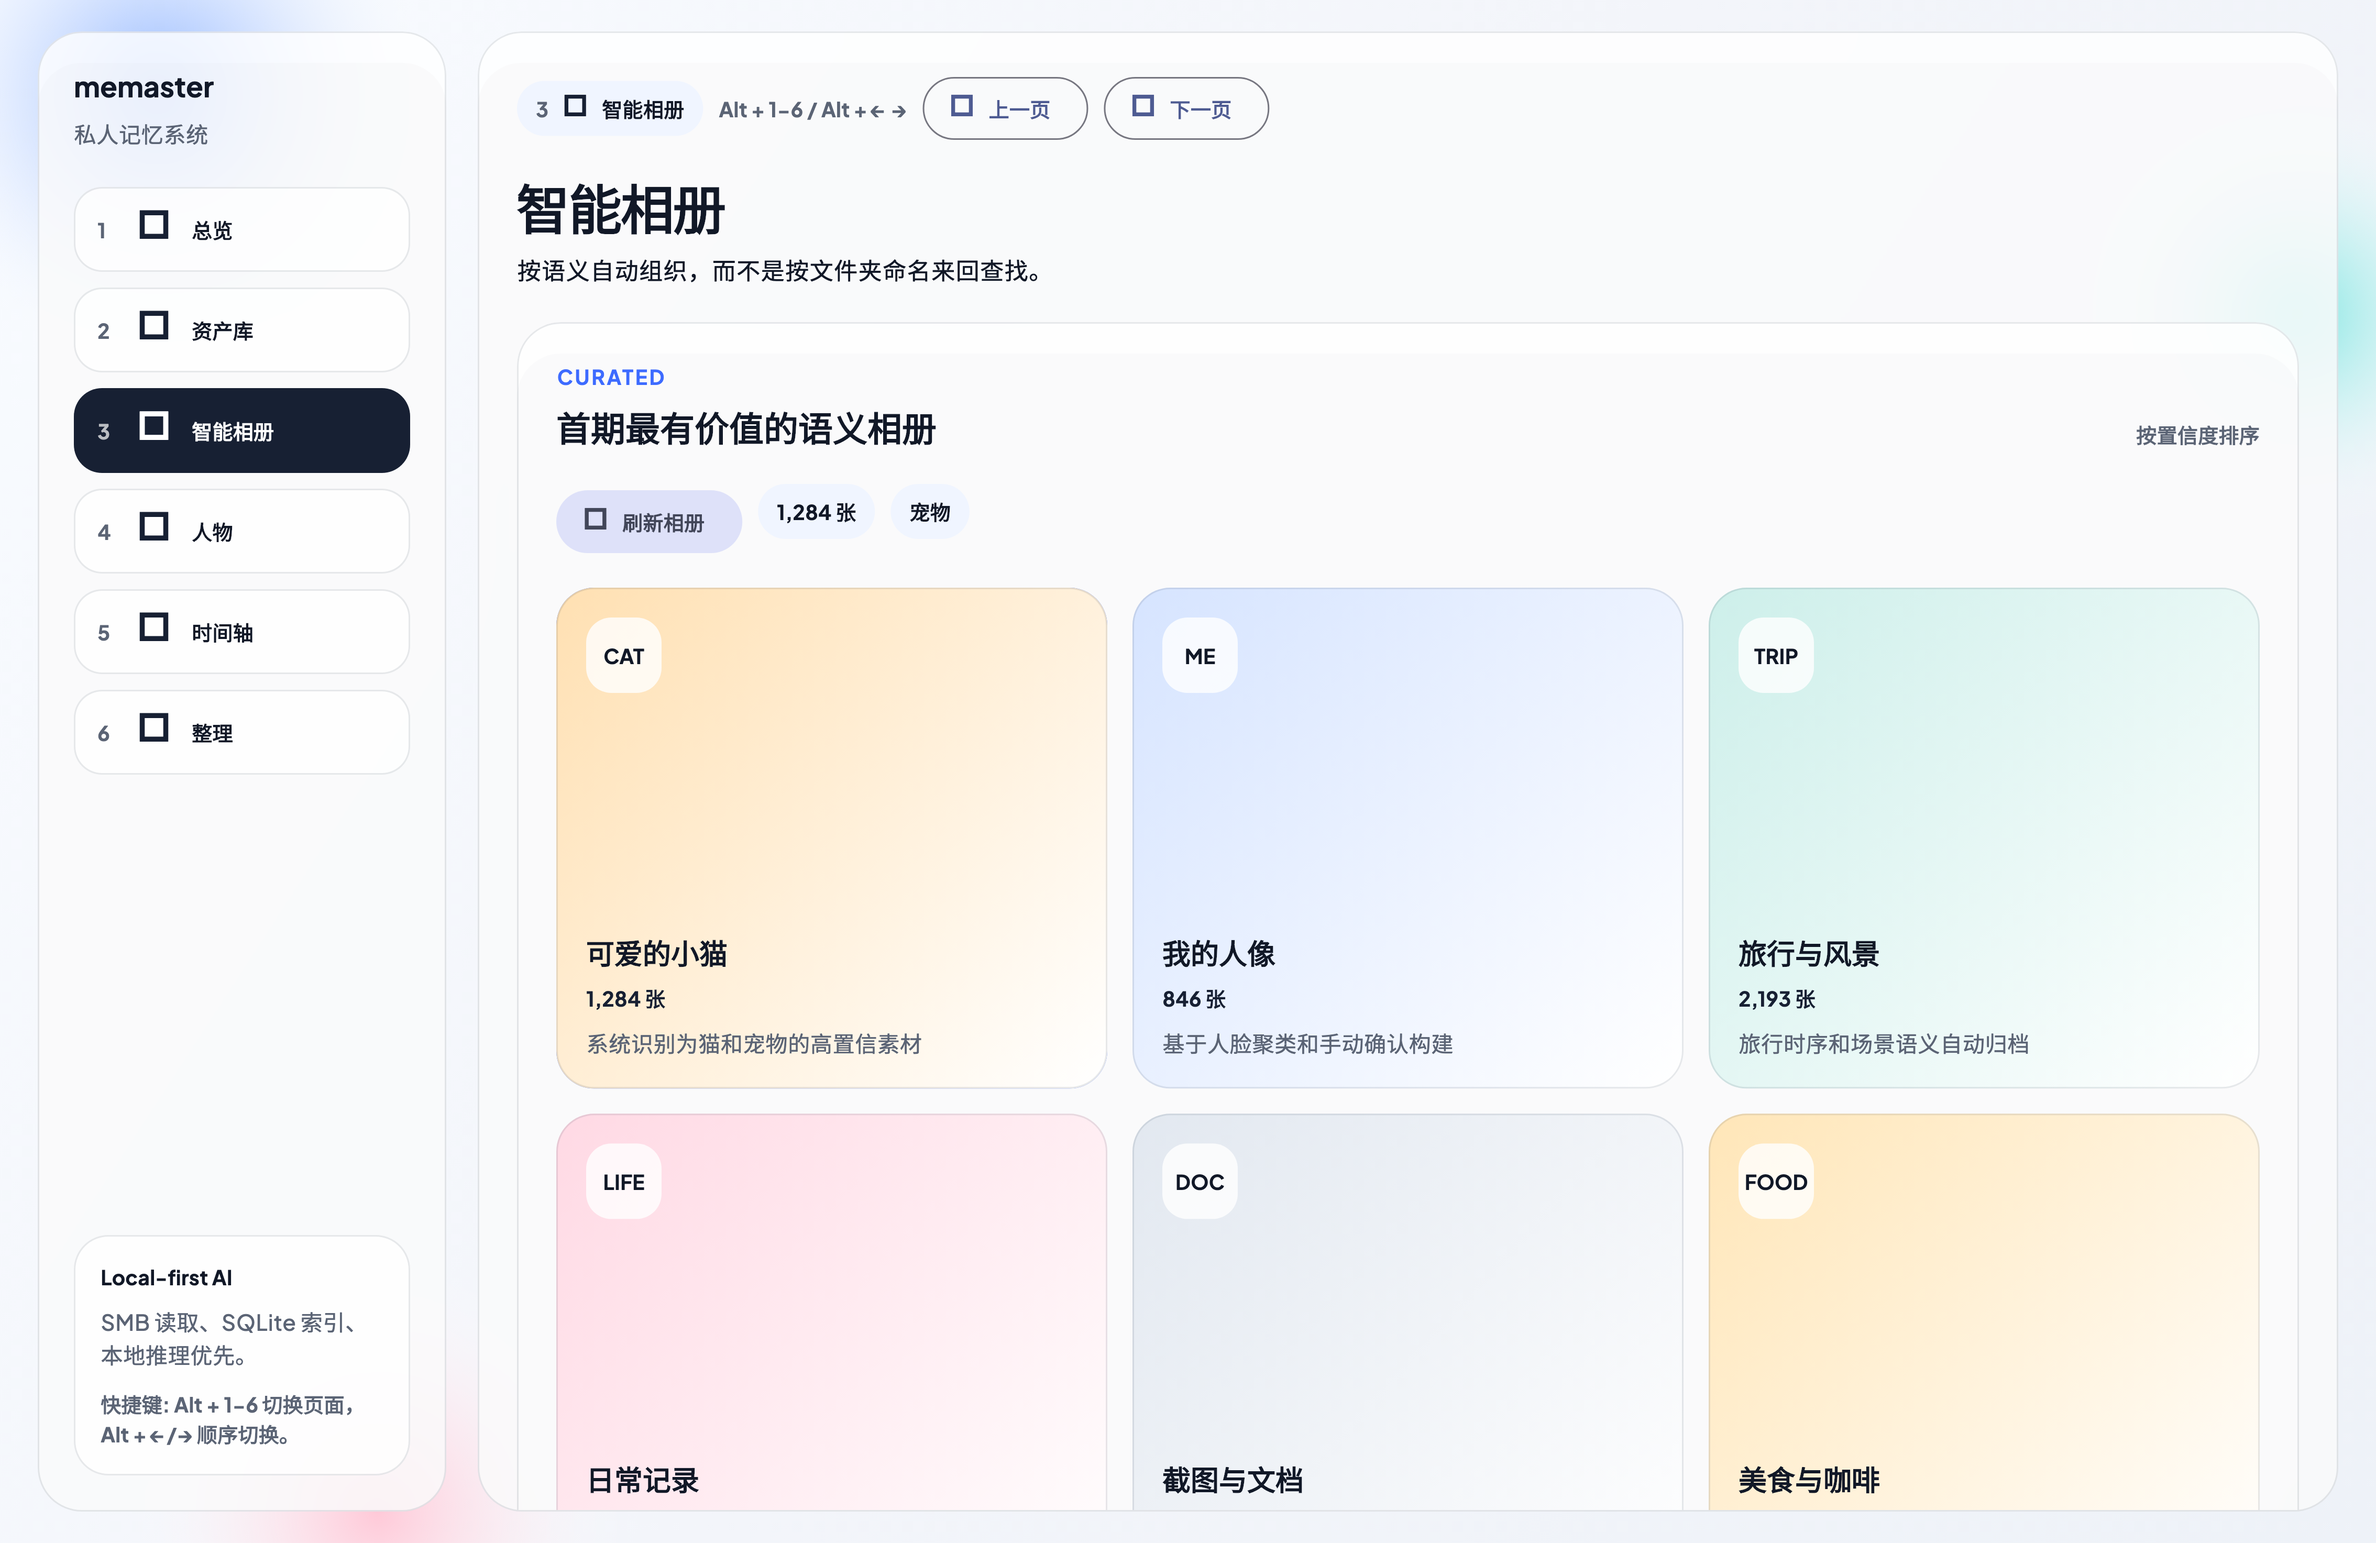
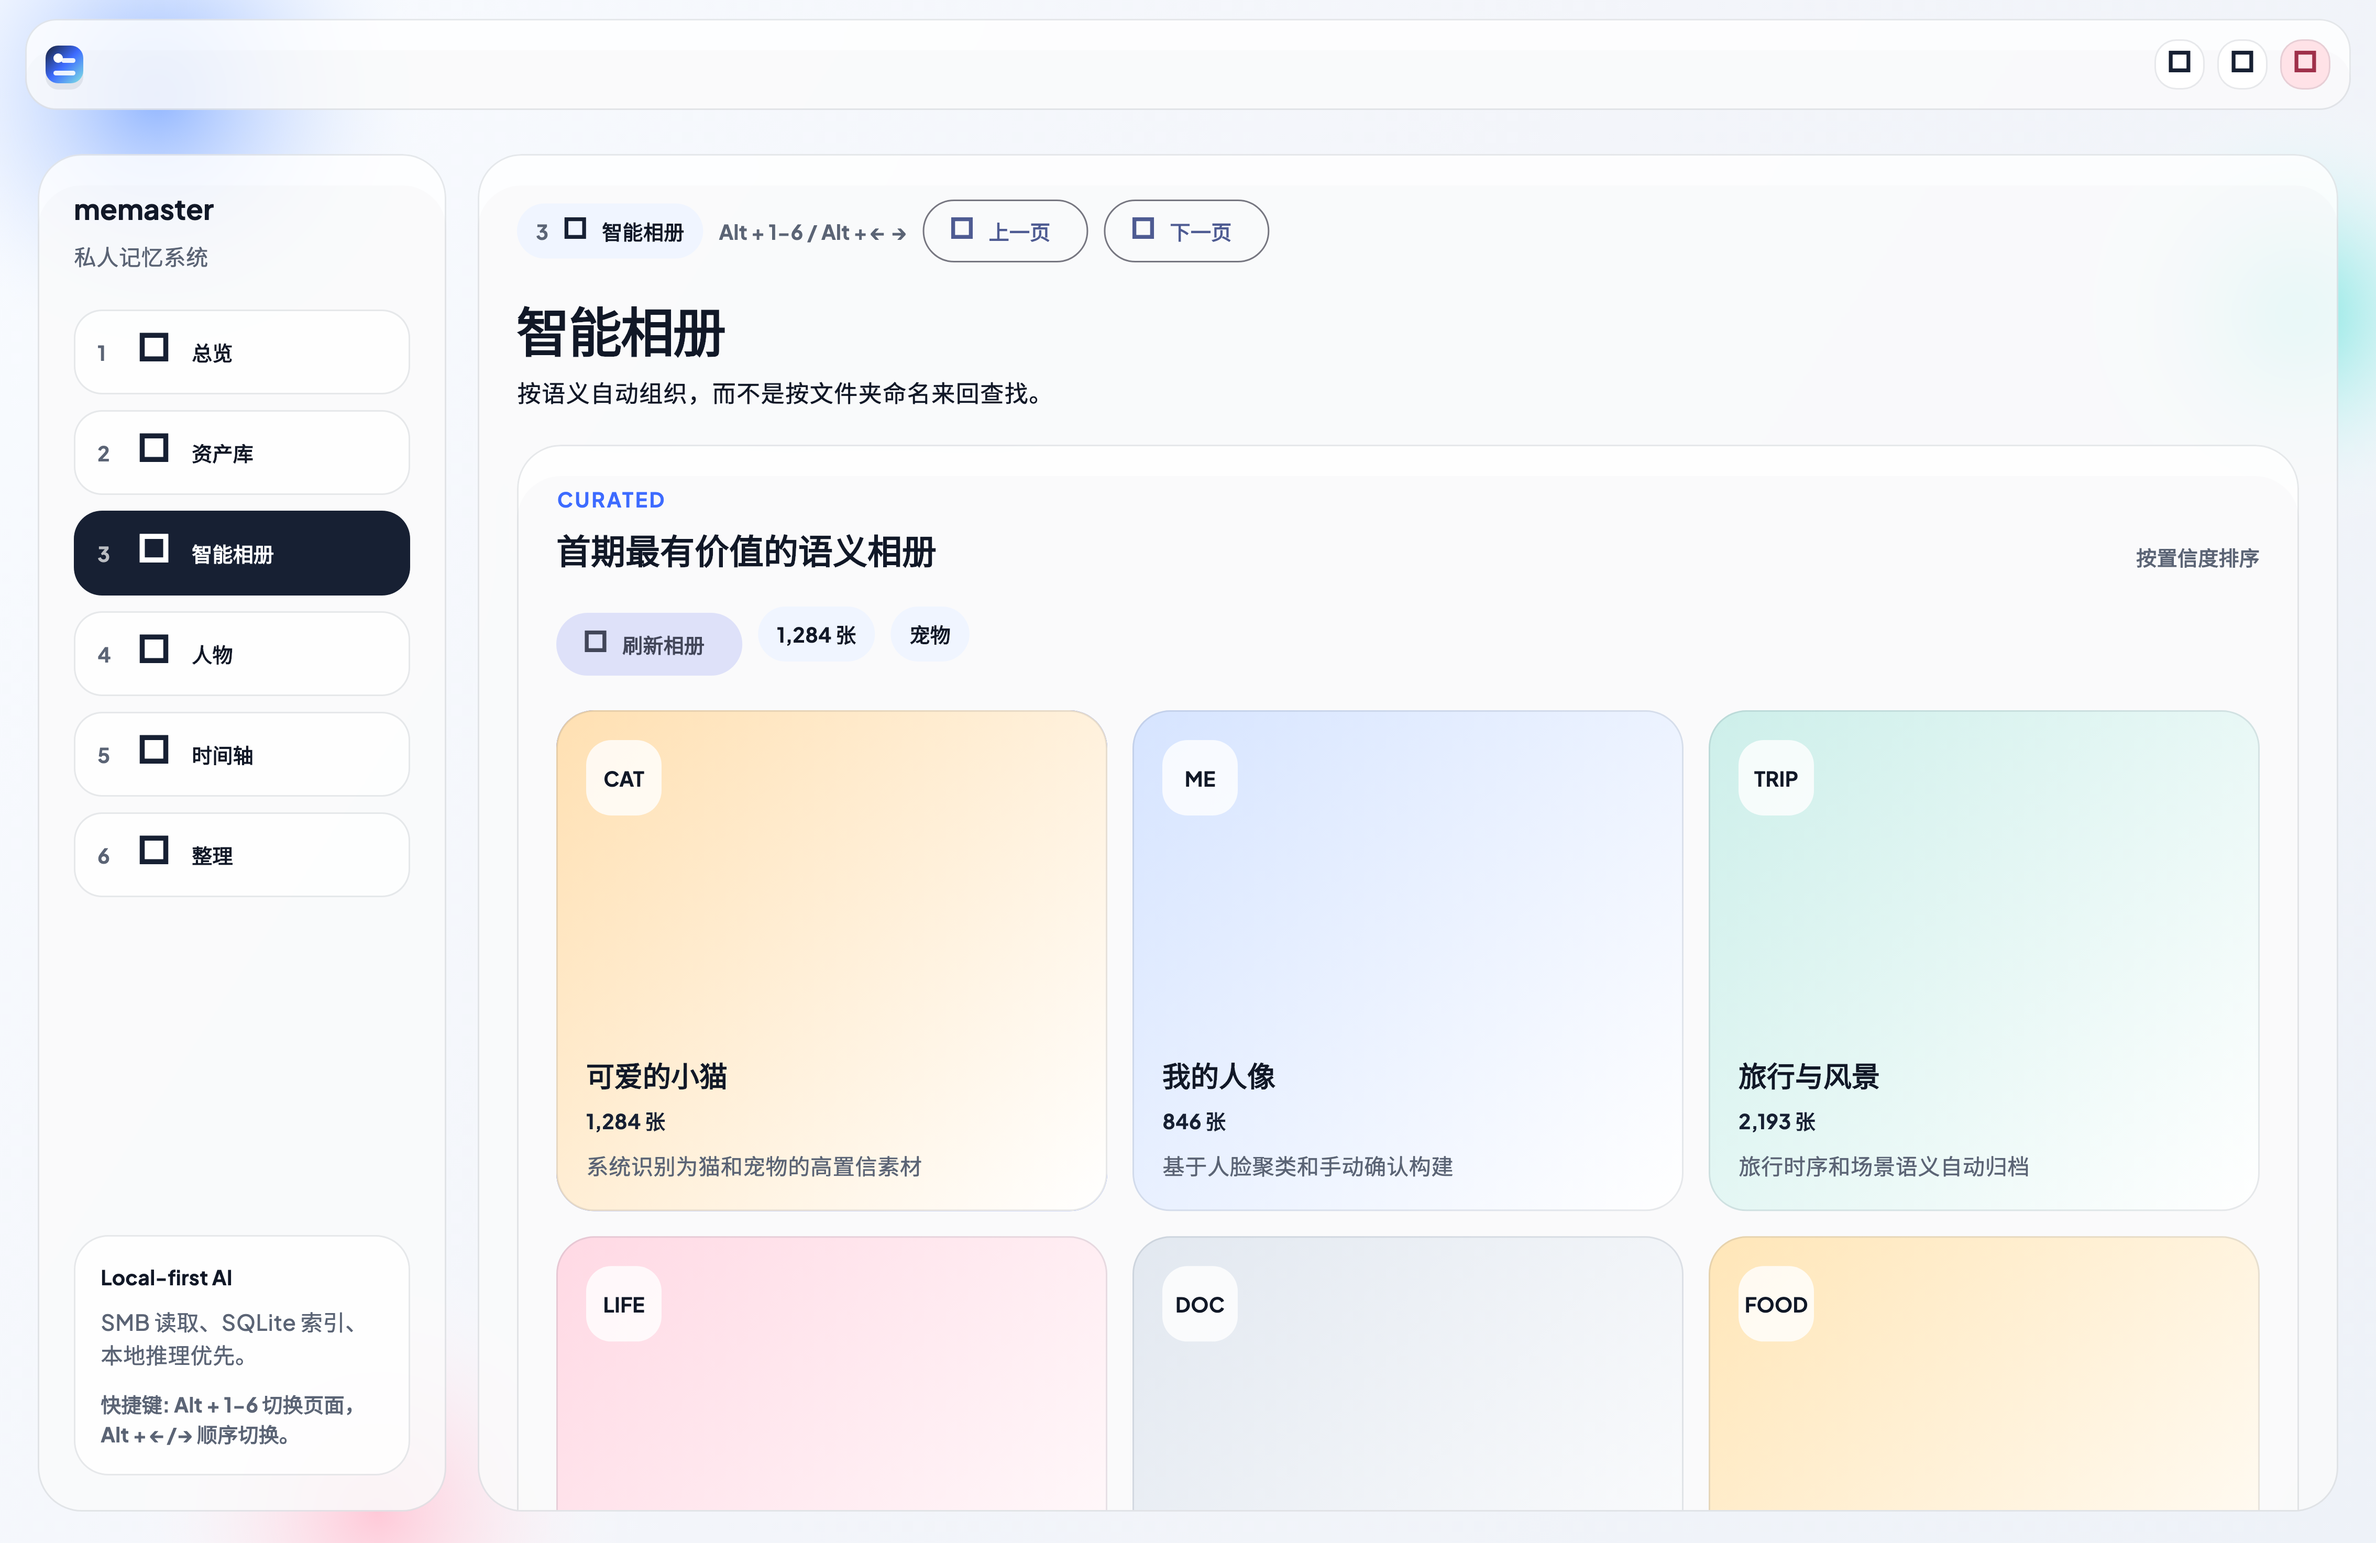
Refresh README screenshots with current desktop shell

diff --git a/lib/core/widgets/app_window_frame.dart b/lib/core/widgets/app_window_frame.dart
@@ -9,13 +9,15 @@ class AppWindowFrame extends StatelessWidget {
   const AppWindowFrame({
     super.key,
     required this.child,
+    this.forceEnabled = false,
   });
 
   final Widget child;
+  final bool forceEnabled;
 
   @override
   Widget build(BuildContext context) {
-    if (!supportsCustomWindowFrame) {
+    if (!(forceEnabled || supportsCustomWindowFrame)) {
       return child;
     }
 
@@ -56,13 +58,22 @@ class _WindowHeaderState extends State<_WindowHeader> with WindowListener {
   }
 
   Future<void> _syncWindowState() async {
-    final isMaximized = await windowManager.isMaximized();
-    if (!mounted) {
-      return;
+    try {
+      final isMaximized = await windowManager.isMaximized();
+      if (!mounted) {
+        return;
+      }
+      setState(() {
+        _isMaximized = isMaximized;
+      });
+    } catch (_) {
+      if (!mounted) {
+        return;
+      }
+      setState(() {
+        _isMaximized = false;
+      });
     }
-    setState(() {
-      _isMaximized = isMaximized;
-    });
   }
 
   @override

diff --git a/lib/features/shell/presentation/widgets/shell_scaffold.dart b/lib/features/shell/presentation/widgets/shell_scaffold.dart
@@ -28,6 +28,7 @@ class ShellScaffold extends StatelessWidget {
     required this.title,
     required this.subtitle,
     required this.child,
+    this.forceCustomWindowFrame = false,
   });
 
   final List<AppDestination> destinations;
@@ -36,6 +37,7 @@ class ShellScaffold extends StatelessWidget {
   final String title;
   final String subtitle;
   final Widget child;
+  final bool forceCustomWindowFrame;
 
   @override
   Widget build(BuildContext context) {
@@ -88,6 +90,7 @@ class ShellScaffold extends StatelessWidget {
             child: Scaffold(
               backgroundColor: Colors.transparent,
               body: AppWindowFrame(
+                forceEnabled: forceCustomWindowFrame,
                 child: SafeArea(
                   top: false,
                   child: LayoutBuilder(

diff --git a/test/screenshots_test.dart b/test/screenshots_test.dart
@@ -53,6 +53,7 @@ void main() {
           title: title,
           subtitle: subtitle,
           child: child,
+          forceCustomWindowFrame: true,
         ),
       ),
     );
